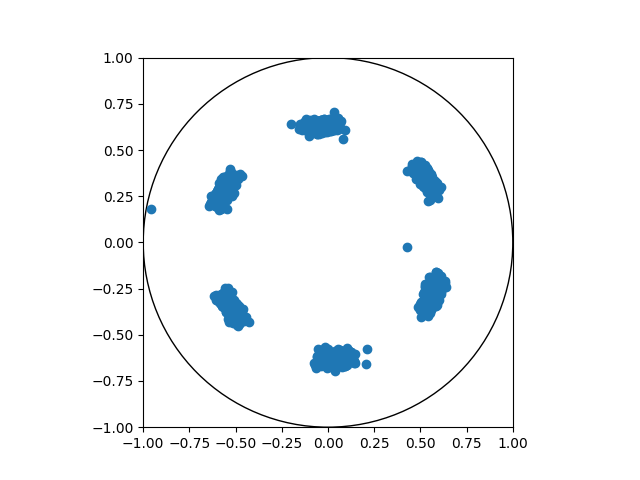
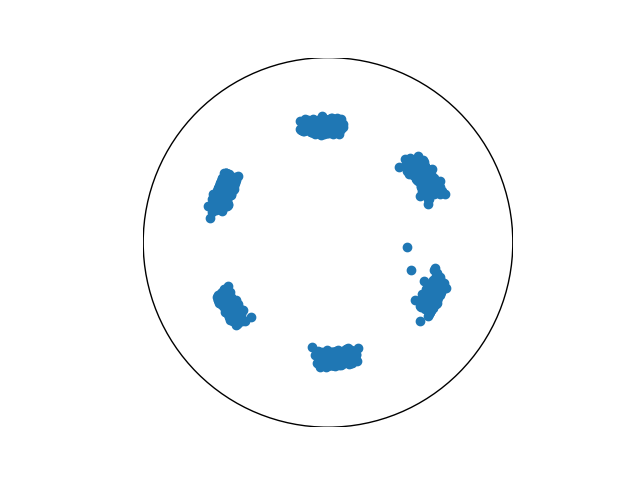
rm ugly axes in pole figure plotting

diff --git a/post.py b/post.py
@@ -151,10 +151,12 @@ def atom_pole(n,nnn,nb1,nb3):
     ax.set_aspect('equal')
     ax.set_xlim((-1, 1))
     ax.set_ylim((-1, 1))
+    plt.axis('off')
     #ax.legend()
     #plt.show()
     plt.savefig('pole_fig.png')
     plt.close()
+
     return
 
 
